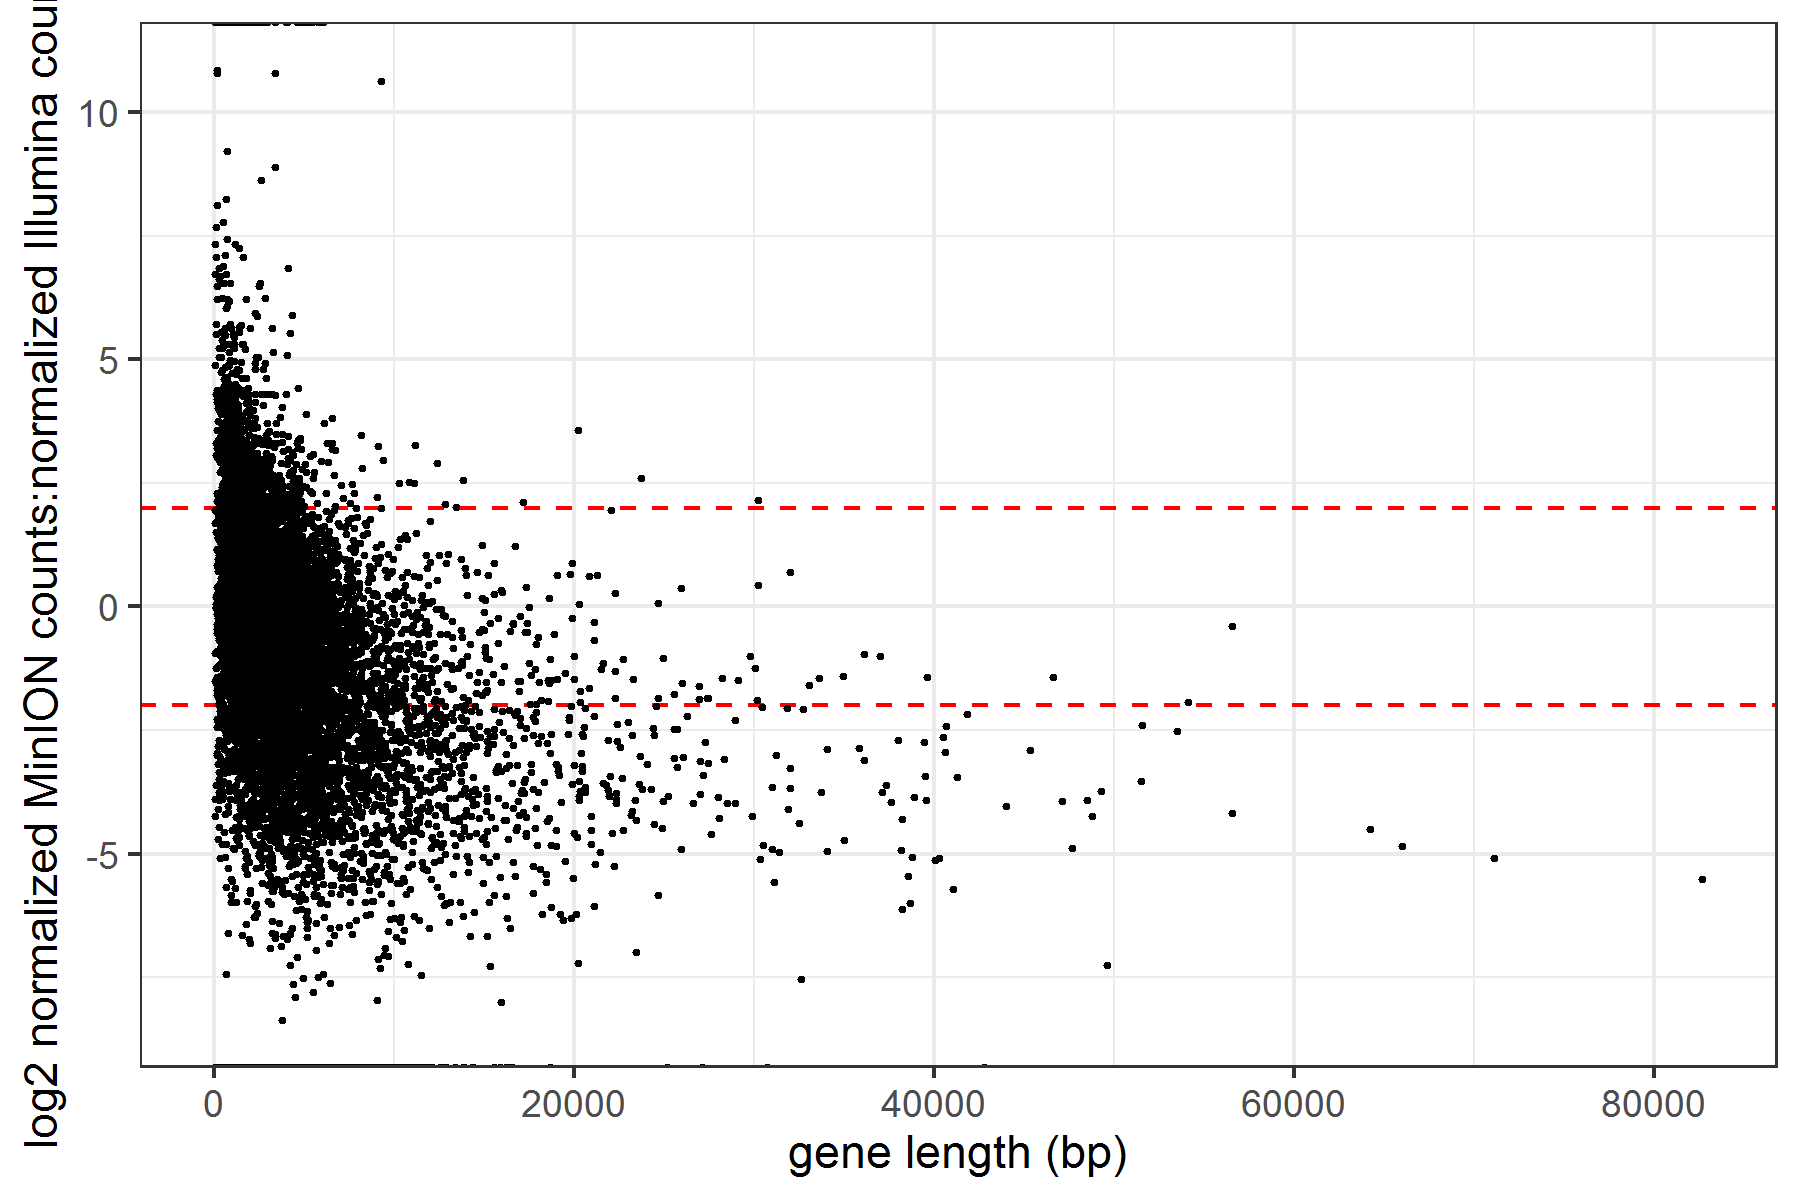
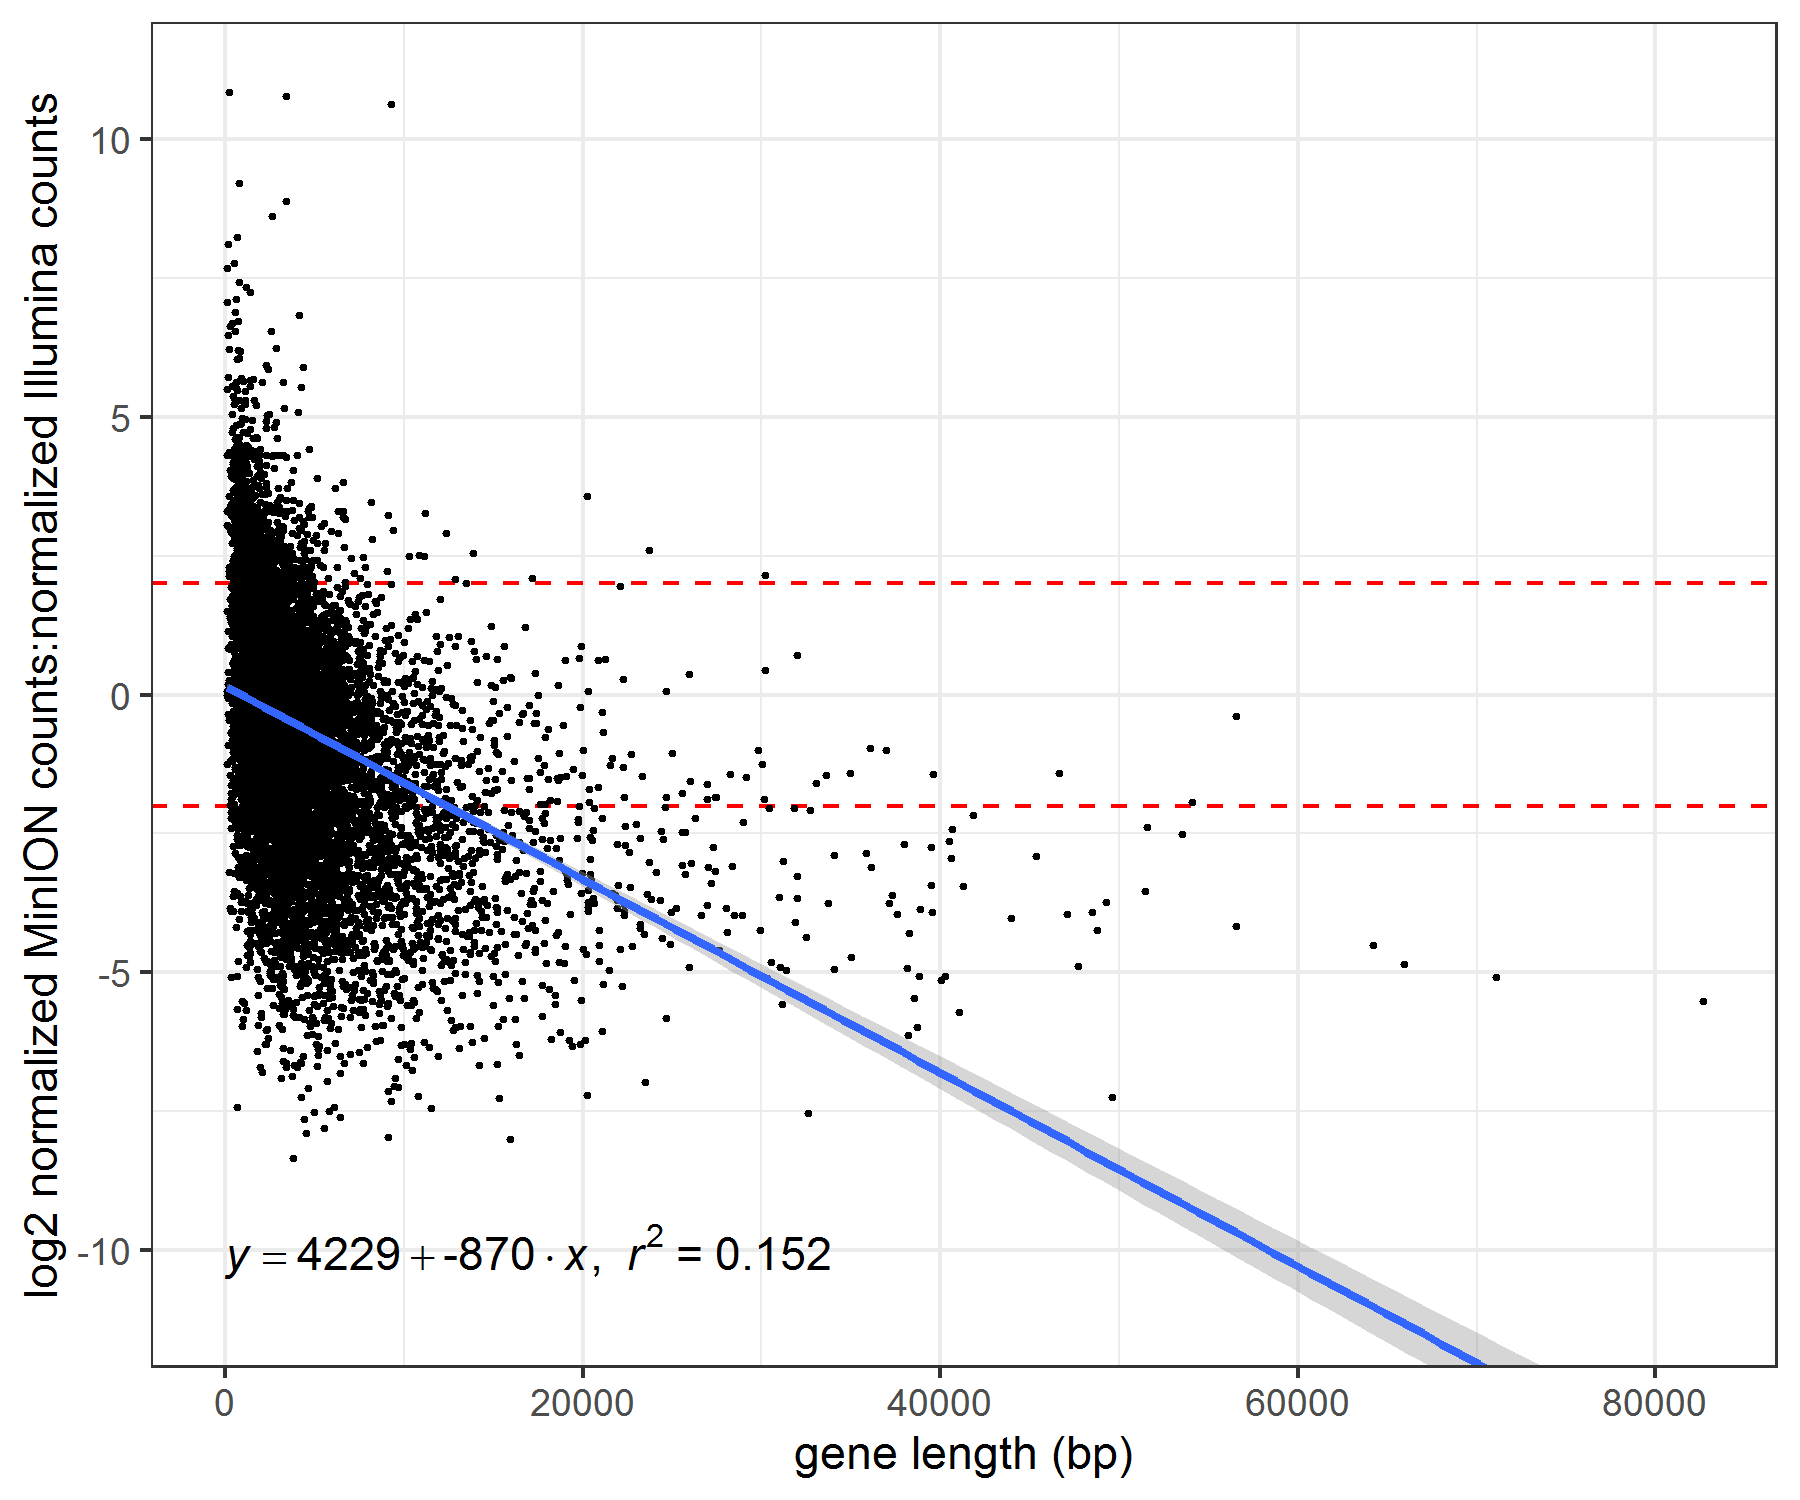
added density plot

diff --git a/README.md b/README.md
@@ -34,10 +34,13 @@
   - [Compare the ratio of normalized counts from the MinION and Illumina sequenced samples](#compare-the-ratio-of-normalized-counts-from-the-minion-and-illumina-sequenced-samples)
     - [Set R inputs](#set-r-inputs)
     - [Load R packages and view sessionInfo](#load-r-packages-and-view-sessioninfo)
+    - [Load R functions](#load-r-functions)
     - [Create normalized counts data frame](#create-normalized-counts-data-frame)
     - [Exclude Wolbachia genes from counts dataframe](#exclude-wolbachia-genes-from-counts-dataframe)
-    - [Plot gene length versus log2 MinION:Illumina normalized count ratio for each gene](#plot-gene-length-versus-log2-minionillumina-normalized-count-ratio-for-each-gene)
+    - [Calculates log2 MinION:Illumina normalized count ratio for each gene](#calculates-log2-minionillumina-normalized-count-ratio-for-each-gene)
     - [Identifies the number of genes with a log2 MinION:Illumina normalized count ratio >2 and <-2](#identifies-the-number-of-genes-with-a-log2-minionillumina-normalized-count-ratio-2-and--2)
+    - [Plot gene length versus log2 MinION:Illumina normalized count ratios for each gene](#plot-gene-length-versus-log2-minionillumina-normalized-count-ratios-for-each-gene)
+    - [Use density plot to visualize the gene length versus log2 MinION:Illumina normalized count ratios for each gene](#use-density-plot-to-visualize-the-gene-length-versus-log2-minionillumina-normalized-count-ratios-for-each-gene)
 
 <!-- /MarkdownTOC -->
 
@@ -225,6 +228,20 @@ loaded via a namespace (and not attached):
 [36] munsell_0.5.0     crayon_1.3.
 ```
 
+### Load R functions
+```{r}
+lm_eqn <- function(df){
+    x <- df[,1]
+    y <- df[,2]
+    m <- lm(y ~ x, df);
+    eq <- substitute(italic(y) == a + b %.% italic(x)*","~~italic(r)^2~"="~r2, 
+         list(a = format(unname(coef(m)[1]), digits = 2),
+              b = format(unname(coef(m)[2]), digits = 2),
+             r2 = format(summary(m)$r.squared, digits = 3)))
+    as.character(as.expression(eq));
+}
+```
+
 ### Create normalized counts data frame
 ```{r}
 illumina_quant <- read.delim(paste0(QUANT_DIR,"/SRR3111490.salmon_optimized.counts/quant.sf"))
@@ -243,29 +260,66 @@ rownames(counts) <- illumina_quant[,1]
 counts <- counts[!grepl("^gene",rownames(counts)),]
 ```
 
-### Plot gene length versus log2 MinION:Illumina normalized count ratio for each gene
+### Calculates log2 MinION:Illumina normalized count ratio for each gene
 
-Genes with a ratio of >2 have significantly more counts from MinION while genes with a ratio of <-2 have significantly more counts from Illumina. From the plot, the only genes skewed towards the MinION-sequenced sample are those of a smaller gene length, indicating most of the counts from the MinION sample are being assigned to smaller genes. On the other hand, more of the larger genes are skewed towards the Illumina sample, indicating the counts are more evenly distributed among the different genes.
+Genes with a ratio of >2 have significantly more counts from MinION while genes with a ratio of <-2 have significantly more counts from Illumina.
 
 ```{r,fig.height=4,fig.width=6}
 counts.plot.df <- as.data.frame(cbind(counts$MinION/counts$Illumina,
-                                    illumina_quant[,2]))
+                                      illumina_quant[!grepl("^gene",illumina_quant[,1]),2]))
+counts.plot.df[,1] <- log2(counts.plot.df[,1])
+```
 
-ratio.plot <- ggplot()+
+### Identifies the number of genes with a log2 MinION:Illumina normalized count ratio >2 and <-2
+
+The number of genes with 4x greater counts in the MinION sample:
+```{r}
+table(counts.plot.df[,1] > 2)
+```
+
+```{r, eval = F}
+FALSE  TRUE 
+10113  1219
+```
+
+The number of genes with 4x greater counts in the Illumina sample:
+```{r}
+table(counts.plot.df[,1] < -2)
+```
+
+```{r, eval = F}
+FALSE  TRUE 
+ 7053  4279 
+```
+
+### Plot gene length versus log2 MinION:Illumina normalized count ratios for each gene
+
+The only genes skewed towards the MinION-sequenced sample are those of a smaller gene length, indicating most of the counts from the MinION sample are being assigned to smaller genes. On the other hand, more of the larger genes are skewed towards the Illumina sample, indicating the counts are more evenly distributed among the different genes.
+
+```{r,fig.height=5,fig.width=6}
+counts.plot.df <- counts.plot.df[counts.plot.df != Inf,]
+counts.plot.df <- counts.plot.df[counts.plot.df != -Inf,]
+counts.plot.df <- counts.plot.df[!is.na(counts.plot.df[,1]),]
+
+ratio.plot <- ggplot(mapping=aes(x=counts.plot.df[,2],y=counts.plot.df[,1]))+
   geom_hline(mapping=aes(yintercept=2),color="red",lty="dashed")+
   geom_hline(mapping=aes(yintercept=-2),color="red",lty="dashed")+
-  geom_point(mapping=aes(x=counts.plot.df[,2],y=log2(counts.plot.df[,1])),size=0.5)+
+  geom_point(size=0.5)+
   labs(x="gene length (bp)", y = "log2 normalized MinION counts:normalized Illumina counts")+
+  coord_cartesian(ylim=c(-11,11))+
+  scale_x_continuous(lim=c(0,NA))+
+  geom_smooth(method='lm',formula=y~x)+
+  geom_text(mapping=aes(x=0, y = -10), label = lm_eqn(counts.plot.df),hjust=0,parse = TRUE)+
   theme_bw()
 
 pdf(paste0(OUTPUT_DIR,"/ratio_plot.pdf"),
-    height=4,
+    height=5,
     width=6)
 print(ratio.plot)
 dev.off()
 
 png(paste0(OUTPUT_DIR,"/ratio_plot.png"),
-    height=4,
+    height=5,
     width=6,
     units = "in",res=300)
 print(ratio.plot)
@@ -276,25 +330,36 @@ print(ratio.plot)
 
 ![Image description](/images/ratio_plot.png)
 
-### Identifies the number of genes with a log2 MinION:Illumina normalized count ratio >2 and <-2
+### Use density plot to visualize the gene length versus log2 MinION:Illumina normalized count ratios for each gene
 
-The number of genes with 4x greater counts in the MinION sample:
-```{r}
-table(log2(counts.plot.df[,1]) > 2)
+```{r,fig.height=5,fig.width=6}
+density_ratio.plot <- ggplot(mapping=aes(x=counts.plot.df[,2],y=counts.plot.df[,1]))+
+  geom_hline(mapping=aes(yintercept=2),color="red",lty="dashed")+
+  geom_hline(mapping=aes(yintercept=-2),color="red",lty="dashed")+
+  stat_density_2d(aes(fill = stat(nlevel)), geom = "polygon")+
+  labs(x="gene length (bp)", y = "log2 normalized MinION counts:normalized Illumina counts")+
+  coord_cartesian(ylim=c(-11,11))+
+  scale_x_continuous(lim=c(0,NA))+
+  geom_smooth(method='lm',formula=y~x)+
+  geom_text(mapping=aes(x=0, y = -10), label = lm_eqn(counts.plot.df),hjust=0,parse = TRUE)+
+  scale_fill_viridis_c()+
+  guides(fill = F)+
+  theme_bw()
+
+pdf(paste0(OUTPUT_DIR,"/density_ratio_plot.pdf"),
+    height=5,
+    width=6)
+print(density_ratio.plot)
+dev.off()
+
+png(paste0(OUTPUT_DIR,"/density_ratio_plot.png"),
+    height=5,
+    width=6,
+    units = "in",res=300)
+print(density_ratio.plot)
+dev.off()
+
+print(density_ratio.plot)
 ```
 
-```{r, eval = F}
-FALSE  TRUE 
-10113  1219
-```
-
-The number of genes with 4x greater counts in the Illumina sample:
-```{r}
-table(log2(counts.plot.df[,1]) < -2)
-```
-
-```{r, eval = F}
-FALSE  TRUE 
- 7053  4279 
-```
-
+![Image description](/images/density_ratio_plot.png)
